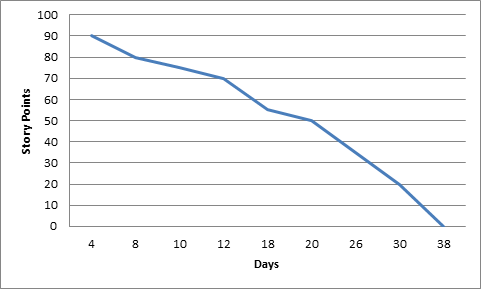
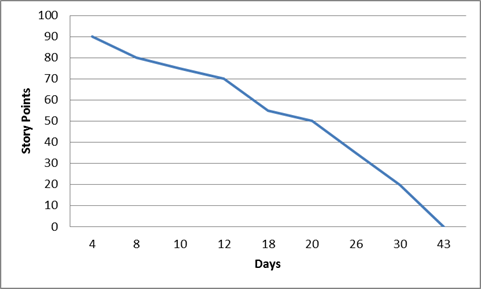
a

diff --git a/public/sprint-reports/finalreport.html b/public/sprint-reports/finalreport.html
@@ -1,0 +1,34 @@
+<h2>Final Report</h2>
+<h2>Snowy-Meadow</h2>
+<h2>12/10/2015</h2>
+<p>Ben (benjamin.tripp@yale.edu)</p>
+<p>James (james.tippets@yale.edu) </p>
+<p>Vivek (vivek.vakil@yale.edu)</p>
+<p>Tyler (tyler.godoff@yale.edu)</p>
+<p></p>
+<p>This is our website URL:</p>
+<p>https://mgt656-snowy-meadow.herokuapp.com</p>
+<p>Our Sprint Meetings this week:</p>
+<p>12/7/15</p>
+<p>12/8/15</p>
+
+<h3>Burn Down Chart (100 points - 9 steps total)</h3>
+<p>
+    <img id ="burndown" src="https://preview.c9users.io/vvakil/new-project/views/burndown.png?_c9_id=livepreview0&_c9_host=https://ide.c9.io" height = 300>
+</p>
+<p>We completed the project! We are on day 43 and have 0 stories points left.</p>
+<h3>Stories Completed</h3>
+<p>We successfully completed all of the tests last sprint. We updated the project tests for this sprint and all tests are still passing. This sprint we focused on adding CSS to make the site look awesome.</p>
+<p>We completed the following stories:</p>
+<p>As any user, I can visit the site and it looks awesome.</p>
+<h3>Product Backlog</h3>
+<p><img id ="backlog" src="https://preview.c9users.io/vvakil/new-project/views/backlog.png?_c9_id=livepreview1&_c9_host=https://ide.c9.io" height = 300></p>
+<p>We have one story left:</p>
+<p>9) As any user, I can visit your site and it looks awesome</p>
+<p>The plan for this sprint is to make each page (about us, event detail, etc...) look nice and formatted. We will leverage CSS to include new fonts, styles, colors, and overall formatting.</p>
+<h3>Status of the app:</h3>
+<p>We completed creating the event detail page, so all the tests in mocha pass. We can now focus on making the site look awesome. </p>
+<p>Below is the latest result form the mocha test. All tests are passing!</p>
+<p>
+    <img id ="burndown" src="https://preview.c9users.io/vvakil/new-project/views/Mocha-test.png?_c9_id=livepreview0&_c9_host=https://ide.c9.io" height = 500>
+</p>

diff --git a/public/sprint-reports/sprint6.html b/public/sprint-reports/sprint6.html
@@ -18,7 +18,7 @@
 <p>We completed the following stories:</p>
 <p>We did not complete any stories this sprint because we are working on making the site look good. We made progress on the story but will not fully complete it until the end of the project.</p>
 <h3>Product Backlog</h3>
-<p><img id ="backlog" src="https://preview.c9users.io/vvakil/new-project/views/backlog.png?_c9_id=livepreview1&_c9_host=https://ide.c9.io" height = 300></p>
+<p><img id ="backlog" src="https://preview.c9users.io/vvakil/new-project/views/burndown4.png?_c9_id=livepreview0&_c9_host=https://ide.c9.io" height = 300></p>
 <p>We have one story left:</p>
 <p>9) As any user, I can visit your site and it looks awesome</p>
 <p>The plan for this sprint is to make each page (about us, event detail, etc...) look nice and formatted. We will leverage CSS to include new fonts, styles, colors, and overall formatting.</p>

diff --git a/public/sprint-reports/sprint5.html b/public/sprint-reports/sprint5.html
@@ -17,7 +17,7 @@
 <p>3. The form for creating new events (had to re-do this story in this sprint)</p>
 <p>6. As an attendee, I can visit the event detail page and RSVP for an event </p>
 <h3>Product Backlog</h3>
-<p><img id ="backlog" src="https://preview.c9users.io/vvakil/new-project/views/backlog.png?_c9_id=livepreview1&_c9_host=https://ide.c9.io" height = 300></p>
+<p><img id ="backlog" src="https://preview.c9users.io/vvakil/new-project/views/burndown4.png?_c9_id=livepreview0&_c9_host=https://ide.c9.io" height = 300></p>
 <p>We have one story left:</p>
 <p>9) As any user, I can visit your site and it looks awesome</p>
 <p>The plan for this sprint is to make each page (about us, event detail, etc...) look nice and formatted. We will leverage CSS to include new fonts, styles, colors, and overall formatting.</p>
